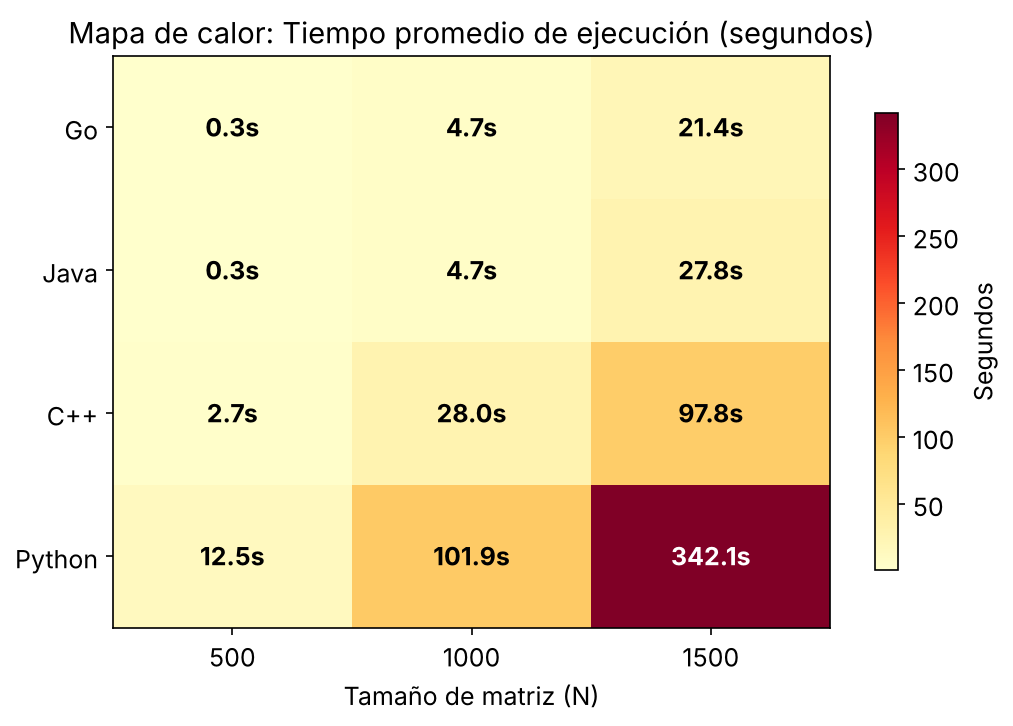
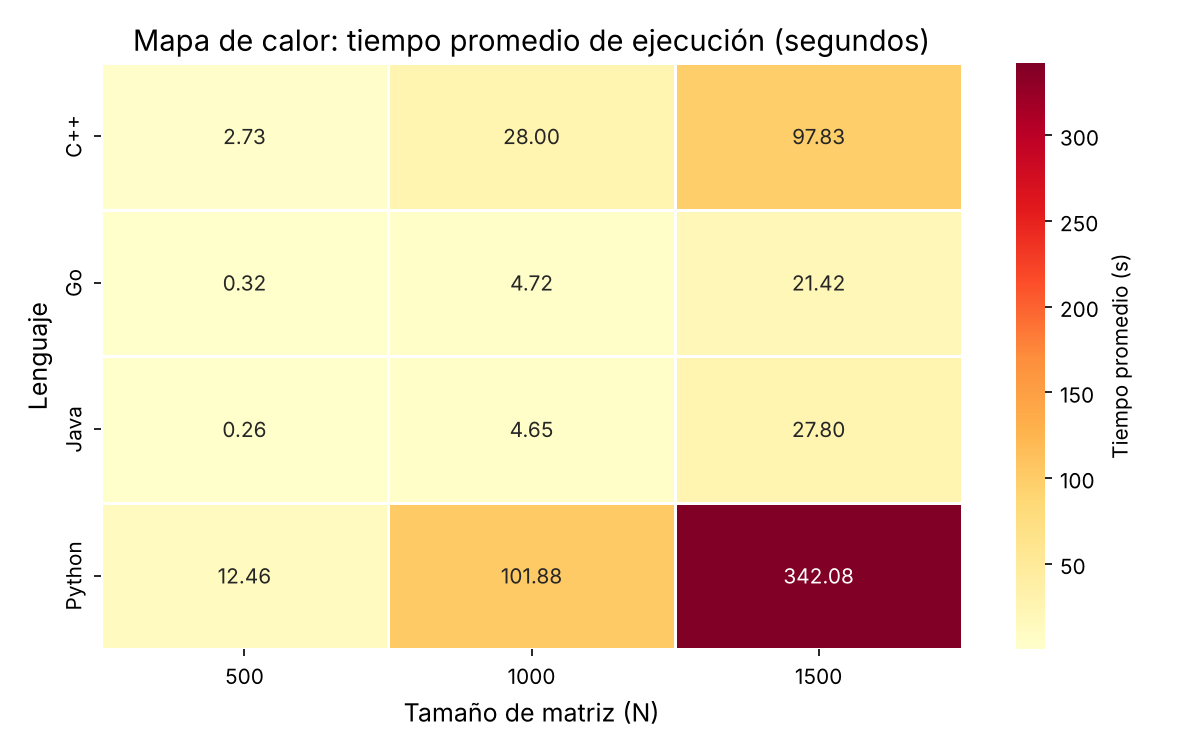
feat: add 5 missing charts to pipeline for full reproducibility
analyze.py now generates all 7 visualizations referenced in README:
bar_chart_comparison, boxplot_comparison, heatmap_times, speedup_chart,
and interaction_chart — closing the gap where these existed as static
files but weren't produced by the Snakemake pipeline.

Also updates Snakefile rule outputs, README structure/docs, and fixes
FAIR_datasheet.md author placeholder.

diff --git a/analysis/analyze.py b/analysis/analyze.py
@@ -5,13 +5,19 @@ Genera:
   - Estadísticas descriptivas (descriptive_stats.csv)
   - ANOVA de dos factores con interacción (anova_results.txt)
   - Comparaciones post-hoc Tukey HSD (tukey_results.txt)
-  - Boxplot por lenguaje y tamaño (boxplot_by_language.png)
-  - Gráfico de interacción (interaction_plot.png)
+  - Boxplot por lenguaje agrupado por tamaño (boxplot_by_language.png)
+  - Gráfico de interacción Lenguaje × Tamaño (interaction_plot.png)
+  - Comparación de barras de tiempos promedio (bar_chart_comparison.png)
+  - Boxplot comparativo por tamaño (boxplot_comparison.png)
+  - Mapa de calor de tiempos promedio (heatmap_times.png)
+  - Speedup relativo a Python (speedup_chart.png)
+  - Gráfico de interacción alternativo (interaction_chart.png)
 """
 
 import argparse
 import os
 
+import numpy as np
 import pandas as pd
 import matplotlib
 matplotlib.use("Agg")
@@ -21,6 +27,12 @@ from scipy import stats
 from statsmodels.formula.api import ols
 from statsmodels.stats.anova import anova_lm
 from statsmodels.stats.multicomp import pairwise_tukeyhsd
+
+
+# Orden y paleta consistentes para todos los gráficos
+LANG_ORDER = ["cpp", "go", "java", "python"]
+LANG_LABELS = {"cpp": "C++", "go": "Go", "java": "Java", "python": "Python"}
+PALETTE = {"cpp": "#4C72B0", "go": "#55A868", "java": "#C44E52", "python": "#8172B2"}
 
 
 def load_data(path: str) -> pd.DataFrame:
@@ -47,7 +59,7 @@ def descriptive_stats(df: pd.DataFrame, output_dir: str):
 
 
 def run_anova(df: pd.DataFrame, output_dir: str):
-    # Convertir N a categórico para ANOVA factorial
+    df = df.copy()
     df["N_cat"] = df["N"].astype(str)
 
     model = ols("time_seconds ~ C(language) * C(N_cat)", data=df).fit()
@@ -77,12 +89,11 @@ def run_anova(df: pd.DataFrame, output_dir: str):
 
 
 def run_tukey(df: pd.DataFrame, output_dir: str):
-    # Tukey HSD agrupando por lenguaje (colapsando N)
+    df = df.copy()
     tukey_lang = pairwise_tukeyhsd(
         df["time_seconds"], df["language"], alpha=0.05
     )
 
-    # Tukey HSD por combinación lenguaje-N
     df["group"] = df["language"] + "_N" + df["N"].astype(str)
     tukey_full = pairwise_tukeyhsd(
         df["time_seconds"], df["group"], alpha=0.05
@@ -103,16 +114,23 @@ def run_tukey(df: pd.DataFrame, output_dir: str):
     print(f"Resultados Tukey HSD guardados en {path}")
 
 
+# ---------------------------------------------------------------------------
+# Gráficos
+# ---------------------------------------------------------------------------
+
 def plot_boxplot(df: pd.DataFrame, output_dir: str):
+    """Boxplot agrupado por lenguaje y tamaño (boxplot_by_language.png)."""
     fig, ax = plt.subplots(figsize=(12, 6))
     sns.boxplot(
         data=df, x="N", y="time_seconds", hue="language",
-        palette="Set2", ax=ax
+        hue_order=LANG_ORDER, palette=PALETTE, ax=ax
     )
     ax.set_title("Tiempo de ejecución por lenguaje y tamaño de matriz", fontsize=14)
     ax.set_xlabel("Tamaño de matriz (N)", fontsize=12)
     ax.set_ylabel("Tiempo (segundos)", fontsize=12)
-    ax.legend(title="Lenguaje", fontsize=10)
+    handles, labels = ax.get_legend_handles_labels()
+    ax.legend(handles, [LANG_LABELS.get(l, l) for l in labels],
+              title="Lenguaje", fontsize=10)
     plt.tight_layout()
     path = os.path.join(output_dir, "boxplot_by_language.png")
     fig.savefig(path, dpi=150)
@@ -121,20 +139,22 @@ def plot_boxplot(df: pd.DataFrame, output_dir: str):
 
 
 def plot_interaction(df: pd.DataFrame, output_dir: str):
+    """Gráfico de interacción Lenguaje × Tamaño (interaction_plot.png)."""
     means = df.groupby(["language", "N"])["time_seconds"].mean().reset_index()
 
     fig, ax = plt.subplots(figsize=(10, 6))
-    for lang in means["language"].unique():
+    for lang in LANG_ORDER:
         subset = means[means["language"] == lang]
         ax.plot(
             subset["N"], subset["time_seconds"],
-            marker="o", linewidth=2, label=lang
+            marker="o", linewidth=2, label=LANG_LABELS[lang],
+            color=PALETTE[lang]
         )
 
     ax.set_title("Gráfico de interacción: Lenguaje × Tamaño de matriz", fontsize=14)
     ax.set_xlabel("Tamaño de matriz (N)", fontsize=12)
     ax.set_ylabel("Tiempo promedio (segundos)", fontsize=12)
-    ax.set_xticks(means["N"].unique())
+    ax.set_xticks(sorted(means["N"].unique()))
     ax.legend(title="Lenguaje", fontsize=10)
     ax.grid(True, alpha=0.3)
     plt.tight_layout()
@@ -142,6 +162,170 @@ def plot_interaction(df: pd.DataFrame, output_dir: str):
     fig.savefig(path, dpi=150)
     plt.close(fig)
     print(f"Gráfico de interacción guardado en {path}")
+
+
+def plot_bar_chart(df: pd.DataFrame, output_dir: str):
+    """Comparación de barras de tiempos promedio (bar_chart_comparison.png)."""
+    means = df.groupby(["language", "N"])["time_seconds"].mean().reset_index()
+    sizes = sorted(means["N"].unique())
+
+    x = np.arange(len(sizes))
+    width = 0.18
+    fig, ax = plt.subplots(figsize=(12, 6))
+
+    for i, lang in enumerate(LANG_ORDER):
+        subset = means[means["language"] == lang].sort_values("N")
+        bars = ax.bar(x + i * width, subset["time_seconds"].values,
+                      width, label=LANG_LABELS[lang], color=PALETTE[lang])
+        # Etiquetas de valor sobre cada barra
+        for bar in bars:
+            h = bar.get_height()
+            ax.annotate(f"{h:.1f}",
+                        xy=(bar.get_x() + bar.get_width() / 2, h),
+                        xytext=(0, 4), textcoords="offset points",
+                        ha="center", va="bottom", fontsize=8)
+
+    ax.set_title("Tiempo promedio de ejecución por lenguaje y tamaño de matriz",
+                 fontsize=14)
+    ax.set_xlabel("Tamaño de matriz (N)", fontsize=12)
+    ax.set_ylabel("Tiempo promedio (segundos)", fontsize=12)
+    ax.set_xticks(x + width * 1.5)
+    ax.set_xticklabels([str(s) for s in sizes])
+    ax.legend(title="Lenguaje", fontsize=10)
+    ax.grid(axis="y", alpha=0.3)
+    plt.tight_layout()
+    path = os.path.join(output_dir, "bar_chart_comparison.png")
+    fig.savefig(path, dpi=150)
+    plt.close(fig)
+    print(f"Gráfico de barras guardado en {path}")
+
+
+def plot_boxplot_comparison(df: pd.DataFrame, output_dir: str):
+    """Boxplots separados por tamaño de matriz (boxplot_comparison.png)."""
+    sizes = sorted(df["N"].unique())
+    fig, axes = plt.subplots(1, len(sizes), figsize=(5 * len(sizes), 6),
+                             sharey=False)
+    if len(sizes) == 1:
+        axes = [axes]
+
+    for ax, n in zip(axes, sizes):
+        subset = df[df["N"] == n]
+        sns.boxplot(
+            data=subset, x="language", y="time_seconds",
+            order=LANG_ORDER, hue="language", hue_order=LANG_ORDER,
+            palette=PALETTE, legend=False, ax=ax
+        )
+        ax.set_title(f"N = {n}", fontsize=13)
+        ax.set_xlabel("Lenguaje", fontsize=11)
+        ax.set_ylabel("Tiempo (segundos)" if n == sizes[0] else "", fontsize=11)
+        ax.set_xticks(range(len(LANG_ORDER)))
+        ax.set_xticklabels([LANG_LABELS[l] for l in LANG_ORDER])
+
+    fig.suptitle("Distribución de tiempos de ejecución por tamaño de matriz",
+                 fontsize=14, y=1.02)
+    plt.tight_layout()
+    path = os.path.join(output_dir, "boxplot_comparison.png")
+    fig.savefig(path, dpi=150, bbox_inches="tight")
+    plt.close(fig)
+    print(f"Boxplot comparativo guardado en {path}")
+
+
+def plot_heatmap(df: pd.DataFrame, output_dir: str):
+    """Mapa de calor de tiempos promedio (heatmap_times.png)."""
+    pivot = (
+        df.groupby(["language", "N"])["time_seconds"]
+        .mean()
+        .reset_index()
+        .pivot(index="language", columns="N", values="time_seconds")
+    )
+    # Reordenar filas
+    pivot = pivot.reindex(LANG_ORDER)
+    pivot.index = [LANG_LABELS[l] for l in pivot.index]
+
+    fig, ax = plt.subplots(figsize=(8, 5))
+    sns.heatmap(pivot, annot=True, fmt=".2f", cmap="YlOrRd",
+                linewidths=0.5, ax=ax,
+                cbar_kws={"label": "Tiempo promedio (s)"})
+    ax.set_title("Mapa de calor: tiempo promedio de ejecución (segundos)",
+                 fontsize=14)
+    ax.set_xlabel("Tamaño de matriz (N)", fontsize=12)
+    ax.set_ylabel("Lenguaje", fontsize=12)
+    plt.tight_layout()
+    path = os.path.join(output_dir, "heatmap_times.png")
+    fig.savefig(path, dpi=150)
+    plt.close(fig)
+    print(f"Mapa de calor guardado en {path}")
+
+
+def plot_speedup(df: pd.DataFrame, output_dir: str):
+    """Speedup relativo a Python (speedup_chart.png)."""
+    means = df.groupby(["language", "N"])["time_seconds"].mean().reset_index()
+    sizes = sorted(means["N"].unique())
+
+    python_times = means[means["language"] == "python"].set_index("N")["time_seconds"]
+
+    x = np.arange(len(sizes))
+    width = 0.22
+    fig, ax = plt.subplots(figsize=(10, 6))
+
+    for i, lang in enumerate(LANG_ORDER):
+        if lang == "python":
+            continue
+        subset = means[means["language"] == lang].sort_values("N")
+        speedups = [python_times[n] / t for n, t in
+                    zip(subset["N"].values, subset["time_seconds"].values)]
+        bars = ax.bar(x + i * width, speedups, width,
+                      label=LANG_LABELS[lang], color=PALETTE[lang])
+        for bar, sp in zip(bars, speedups):
+            ax.annotate(f"{sp:.1f}x",
+                        xy=(bar.get_x() + bar.get_width() / 2, bar.get_height()),
+                        xytext=(0, 4), textcoords="offset points",
+                        ha="center", va="bottom", fontsize=9, fontweight="bold")
+
+    ax.set_title("Speedup relativo a Python", fontsize=14)
+    ax.set_xlabel("Tamaño de matriz (N)", fontsize=12)
+    ax.set_ylabel("Speedup (veces más rápido que Python)", fontsize=12)
+    ax.set_xticks(x + width)
+    ax.set_xticklabels([str(s) for s in sizes])
+    ax.legend(title="Lenguaje", fontsize=10)
+    ax.axhline(y=1, color="gray", linestyle="--", alpha=0.5, label="_nolegend_")
+    ax.grid(axis="y", alpha=0.3)
+    plt.tight_layout()
+    path = os.path.join(output_dir, "speedup_chart.png")
+    fig.savefig(path, dpi=150)
+    plt.close(fig)
+    print(f"Gráfico de speedup guardado en {path}")
+
+
+def plot_interaction_chart(df: pd.DataFrame, output_dir: str):
+    """Gráfico de interacción con barras de error (interaction_chart.png)."""
+    stats_df = (
+        df.groupby(["language", "N"])["time_seconds"]
+        .agg(["mean", "std"])
+        .reset_index()
+    )
+
+    fig, ax = plt.subplots(figsize=(10, 6))
+    for lang in LANG_ORDER:
+        subset = stats_df[stats_df["language"] == lang].sort_values("N")
+        ax.errorbar(
+            subset["N"], subset["mean"], yerr=subset["std"],
+            marker="s", linewidth=2, capsize=4,
+            label=LANG_LABELS[lang], color=PALETTE[lang]
+        )
+
+    ax.set_title("Interacción Lenguaje × Tamaño (media ± desviación estándar)",
+                 fontsize=14)
+    ax.set_xlabel("Tamaño de matriz (N)", fontsize=12)
+    ax.set_ylabel("Tiempo promedio (segundos)", fontsize=12)
+    ax.set_xticks(sorted(df["N"].unique()))
+    ax.legend(title="Lenguaje", fontsize=10)
+    ax.grid(True, alpha=0.3)
+    plt.tight_layout()
+    path = os.path.join(output_dir, "interaction_chart.png")
+    fig.savefig(path, dpi=150)
+    plt.close(fig)
+    print(f"Gráfico de interacción (con error) guardado en {path}")
 
 
 def main():
@@ -168,6 +352,11 @@ def main():
     print("\n--- Generando gráficos ---")
     plot_boxplot(df, args.output_dir)
     plot_interaction(df, args.output_dir)
+    plot_bar_chart(df, args.output_dir)
+    plot_boxplot_comparison(df, args.output_dir)
+    plot_heatmap(df, args.output_dir)
+    plot_speedup(df, args.output_dir)
+    plot_interaction_chart(df, args.output_dir)
 
     print("\nAnálisis completado.")
 

diff --git a/README.md b/README.md
@@ -74,7 +74,12 @@ matrix-benchmark/
     ├── anova_results.txt
     ├── tukey_results.txt
     ├── boxplot_by_language.png
-    └── interaction_plot.png
+    ├── interaction_plot.png
+    ├── bar_chart_comparison.png
+    ├── boxplot_comparison.png
+    ├── heatmap_times.png
+    ├── speedup_chart.png
+    └── interaction_chart.png
 ```
 
 ---
@@ -292,6 +297,13 @@ El script `analysis/analyze.py` genera:
 - [`descriptive_stats.csv`](results/descriptive_stats.csv) — Media, desviación estándar, mediana, mín/máx por grupo.
 - [`anova_results.txt`](results/anova_results.txt) — ANOVA de dos factores (lenguaje × tamaño) con interacción.
 - [`tukey_results.txt`](results/tukey_results.txt) — Comparaciones múltiples post-hoc Tukey HSD.
+- [`boxplot_by_language.png`](results/boxplot_by_language.png) — Boxplot agrupado por lenguaje y tamaño.
+- [`interaction_plot.png`](results/interaction_plot.png) — Gráfico de interacción Lenguaje × Tamaño.
+- [`bar_chart_comparison.png`](results/bar_chart_comparison.png) — Comparación de barras de tiempos promedio.
+- [`boxplot_comparison.png`](results/boxplot_comparison.png) — Boxplots comparativos por tamaño de matriz.
+- [`heatmap_times.png`](results/heatmap_times.png) — Mapa de calor de tiempos promedio.
+- [`speedup_chart.png`](results/speedup_chart.png) — Speedup relativo a Python.
+- [`interaction_chart.png`](results/interaction_chart.png) — Gráfico de interacción con barras de error.
 
 ---
 

diff --git a/FAIR_datasheet.md b/FAIR_datasheet.md
@@ -7,7 +7,7 @@
 | **Nombre** | Benchmark reproducible de multiplicación de matrices NxN |
 | **Versión** | 1.0 |
 | **Fecha de creación** | 2026-10 |
-| **Autores** | [Nombre del estudiante] |
+| **Autores** | Jorge Fornes |
 | **Licencia** | MIT |
 | **DOI** | [Pendiente - asignado por Zenodo] |
 
